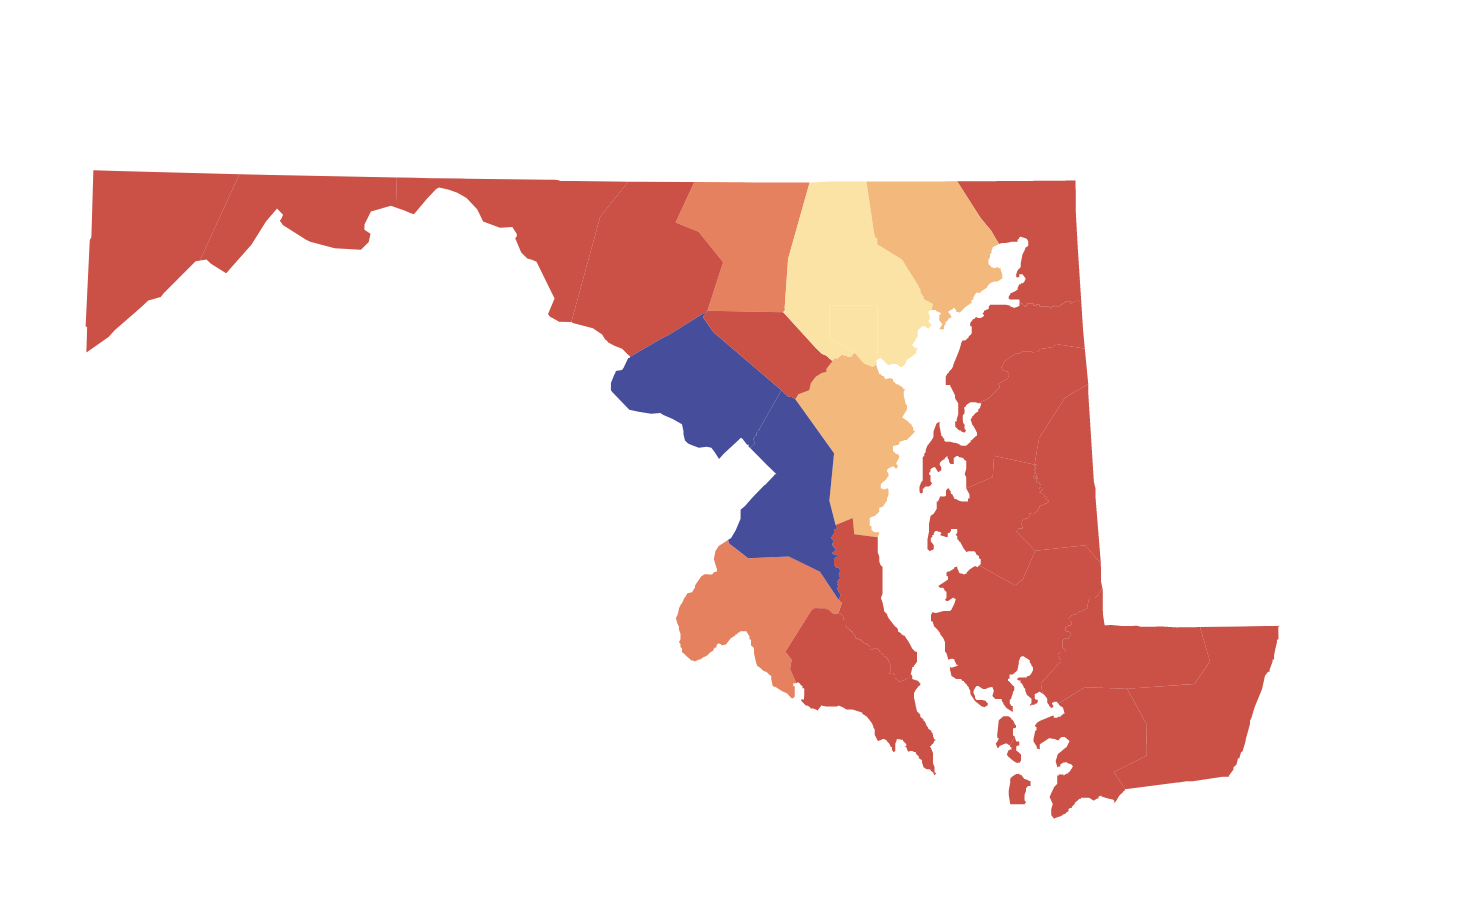
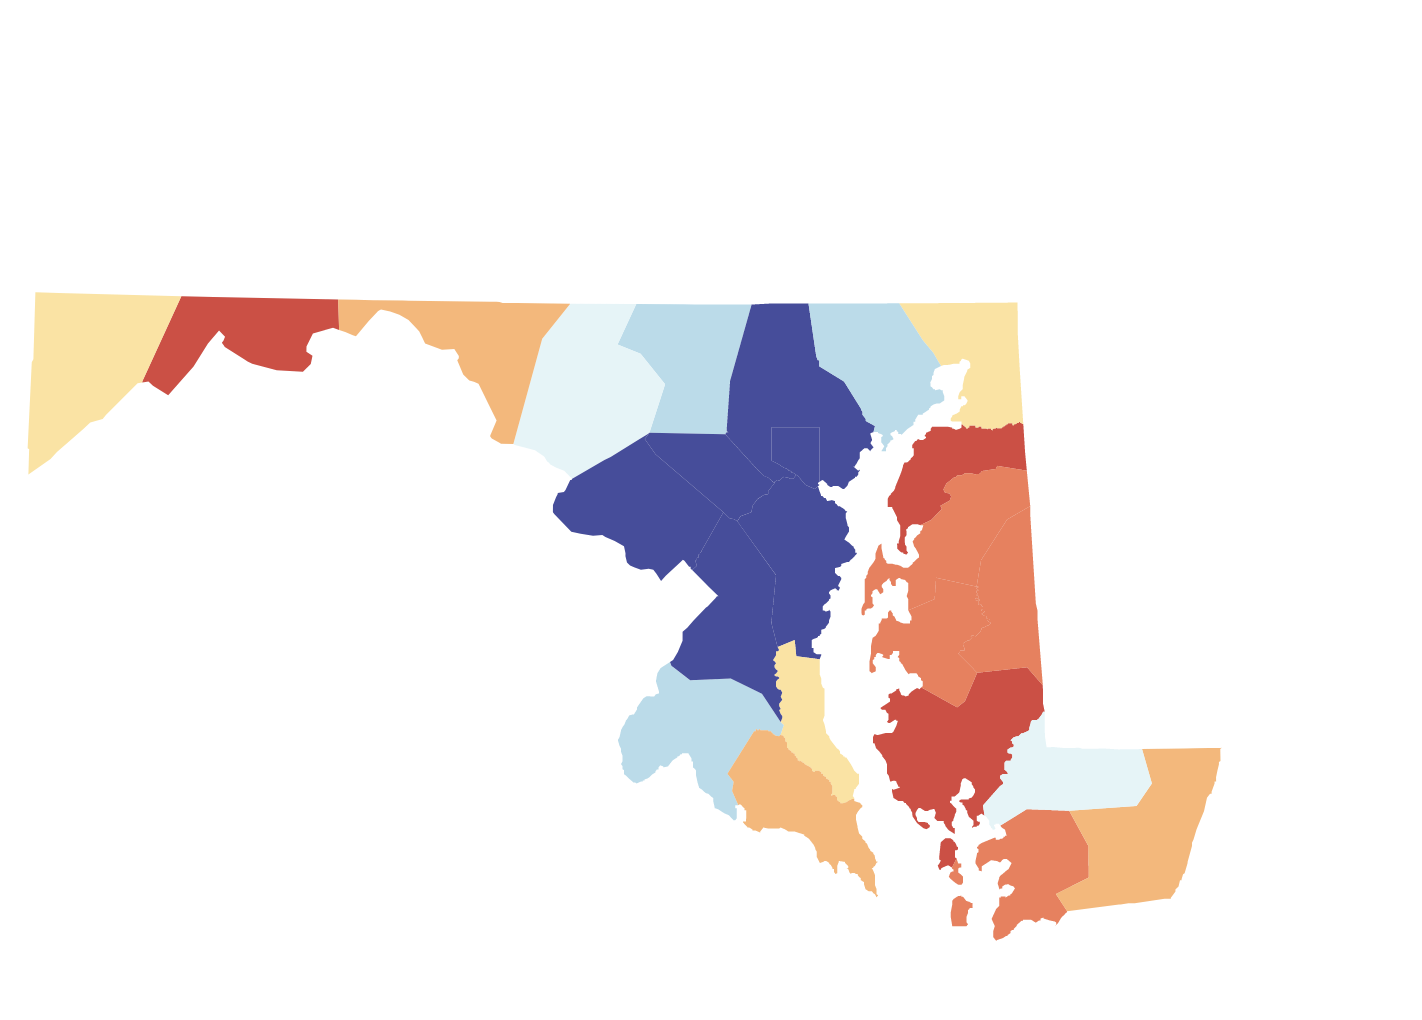
updates

Changed region(s): [[0.0, 0.183, 0.8664, 0.915]]

diff --git a/proj/index.html b/proj/index.html
@@ -26,7 +26,7 @@
 	.attr("width", width)
 	.attr("height", height);
     var group = svg.append('g')
-    var files = ["http://localhost:5000/get_by_id/1", "https://raw.githubusercontent.com/deldersveld/topojson/master/countries/united-states/us-albers-counties.json"];
+    var files = ["http://localhost:5000/get_by_id/10", "https://raw.githubusercontent.com/deldersveld/topojson/master/countries/united-states/us-albers-counties.json"];
     var promises = [
 	d3.json(files[1]),
 	d3.json(files[0], function(d) {
